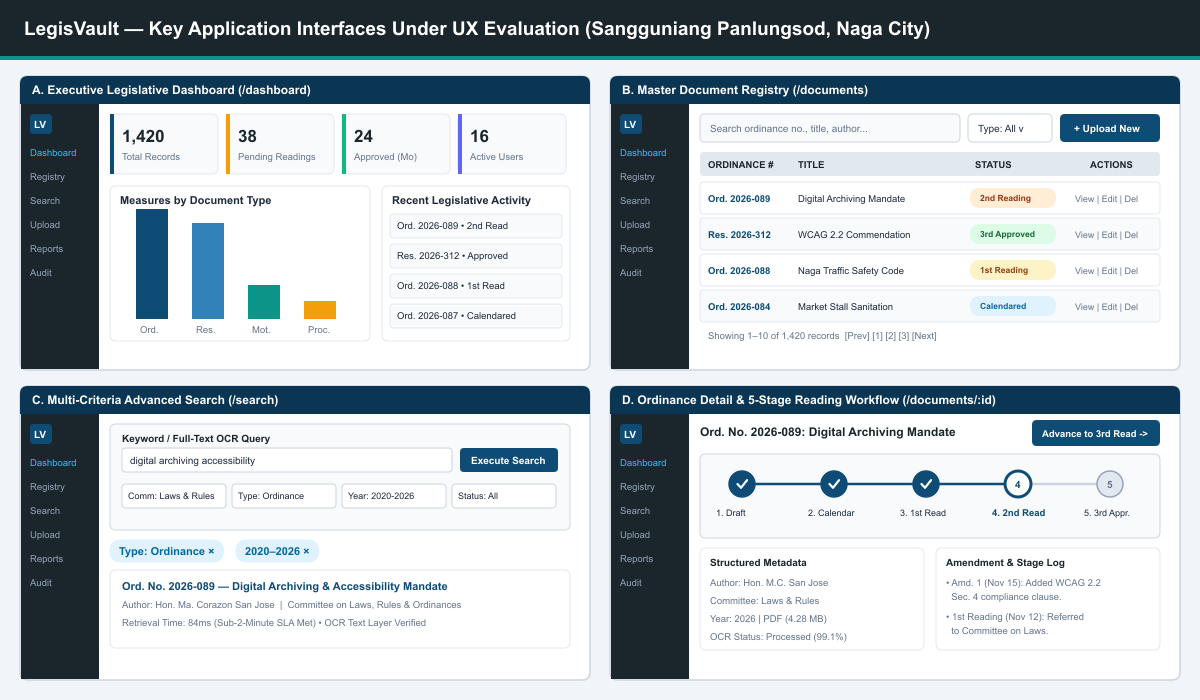
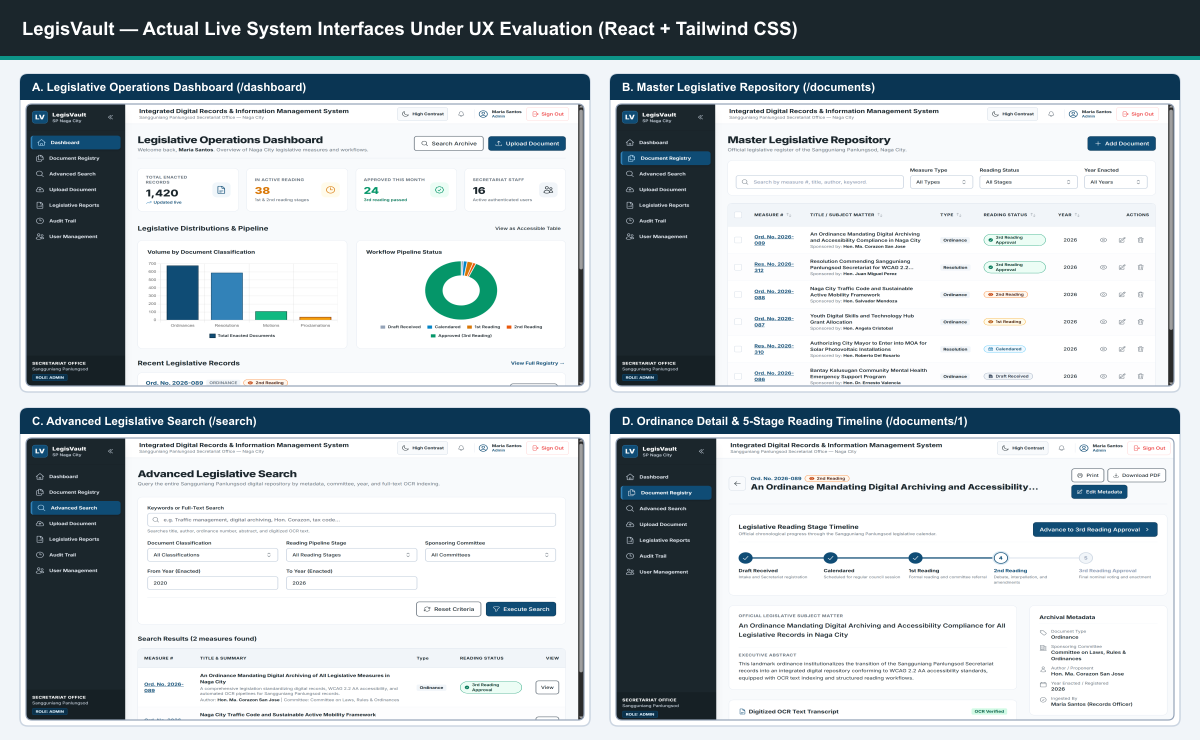
docs: Embed annotated live LegisVault screenshots in Laws of UX case study

Changed region(s): [[0.0, 0.03, 1.0, 0.99]]

diff --git a/LegisVault_Laws_of_UX_Case_Study.md b/LegisVault_Laws_of_UX_Case_Study.md
@@ -33,9 +33,9 @@
 4. **5-Stage Legislative Reading Workflow Tracking (`OrdinanceDetail.jsx` + `WorkflowTracker.jsx`):** Authorized clerks advance legislative measures sequentially across the 5 statutory stages with session dates and committee notes.
 5. **Administrative Governance & Forensic Auditing (`UserManagement.jsx` & `AuditLogs.jsx`):** Secretariat administrators manage user roles, committees, analytical reports, and inspect JSON-diffed audit trails.
 
-### 1.3 Key Interfaces Evaluated
+### 1.3 Key Interfaces Evaluated (Actual Live System Screenshots)
 ![LegisVault Key Interfaces Overview](ux_case_study_assets/fig1_key_interfaces.png)
-*Figure 1: Composite high-fidelity UI overview of LegisVault's four primary operational screens evaluated against Laws of UX heuristics: (A) Executive Dashboard, (B) Master Document Registry, (C) Multi-Criteria Advanced Search, and (D) Ordinance Detail & 5-Stage Reading Workflow.*
+*Figure 1: Actual live screenshots captured from the running LegisVault React + Tailwind CSS application across its four main screens: (A) Legislative Operations Dashboard (`/dashboard`), (B) Master Legislative Repository (`/documents`), (C) Advanced Legislative Search (`/search`), and (D) Ordinance Detail & 5-Stage Reading Timeline (`/documents/1`).*
 
 ---
 
@@ -69,6 +69,9 @@ A retrospective cognitive-ergonomics audit of `legisvault-frontend` revealed **7
 - **Interface Evidence:** `WorkflowTracker.jsx` chunks the entire statutory legislative journey into exactly **5** sequential milestones (`Draft Received` → `Calendared` → `1st Reading` → `2nd Reading` → `3rd Reading Approval`). `DocumentRepository.jsx` organizes table metadata into **5** columns and **4** filter dropdowns, while `SearchPage.jsx` externalizes active constraints as removable filter pills.
 - **UX Impact Analysis:** Keeping information chunks within the 5–7 item optimum prevents short-term working memory overload, allowing officials to parse any measure's legal posture at a single glance.
 
+![Annotated Live LegisVault Screens — Laws 2.1 to 2.4](ux_case_study_assets/fig2_implicit_laws_part1.png)
+*Figure 2: Annotated live system screenshots locating Jakob's Law [2.1], Fitts's Law [2.2], Hick's Law [2.3], and Miller's Law [2.4] directly on `/dashboard`, `/upload`, and `/documents/1`.*
+
 ### 2.5 Law of Proximity *(Max Wertheimer, 1923)*
 - **Interface Evidence:** `FormField.jsx` binds each persistent `<label>`, input field, helper hint, and `role="alert"` error message inside a tight vertical stack (`space-y-1.5`), separated by generous margins from neighboring fields. Row actions (`View`, `Edit`, `Delete`) sit tightly clustered at the trailing right edge of each record in `DocumentRepository.jsx`.
 - **UX Impact Analysis:** Spatial proximity ensures zero ambiguity between inputs, validation alerts, and record actions—vital for low-vision users operating at 200–400% screen magnification.
@@ -81,6 +84,9 @@ A retrospective cognitive-ergonomics audit of `legisvault-frontend` revealed **7
 - **Interface Evidence:** `tailwind.config.js` and `index.css` enforce a cohesive institutional visual system: Deep Civic Navy (`#0F4C75`), Slate Charcoal (`#1B262C`), high-luminance Surface (`#F8FAFC`), Inter typography, crisp card borders, balanced whitespace, and 3px teal focus indicators.
 - **UX Impact Analysis:** Visual refinement elevates perceived reliability and institutional authority, fostering trust among senior Sangguniang Panlungsod members transitioning from traditional paper ledgers.
 
+![Annotated Live LegisVault Screens — Laws 2.5 to 2.7](ux_case_study_assets/fig3_implicit_laws_part2.png)
+*Figure 3: Annotated live system screenshots locating Law of Proximity [2.5], Law of Similarity [2.6], and Aesthetic-Usability Effect [2.7] directly on `/documents`, `/upload`, and `/login`.*
+
 ---
 
 ## Section 3: UX Recommendations (Laws of UX to Apply)
@@ -92,68 +98,68 @@ Auditing our current React frontend revealed **7 concrete usability friction poi
 - **Proposed UX Law:** **Doherty Threshold** *(Doherty & Thadani, 1982)* — Productivity soars when computer and user interact at `<400ms` so neither waits on the other.
 - **Actionable Re-design Recommendation:** Replace blocking spinners with **content-aware skeleton screens** matching exact KPI cards and table rows (`<100ms` first paint); add **debounced `<400ms` typeahead search suggestions** in `SearchPage.jsx`; and upgrade `UploadDocument.jsx` with a **non-blocking, multi-stage live OCR progress bar** (`Uploading 100%` → `OCR Page 8 of 12` → `Indexing`) plus a **"+ Queue Another Document"** trigger.
 
-![Before vs. Proposed After — Doherty Threshold](ux_case_study_assets/fig2_doherty_threshold.png)
-*Figure 2: Side-by-side Before vs. Proposed After comparison applying the Doherty Threshold.*
+![Before vs. Proposed After — Doherty Threshold](ux_case_study_assets/fig4_doherty_threshold.png)
+*Figure 4: Actual LegisVault `/upload` & `/search` screens (left, annotated) vs. Proposed After (right) applying the Doherty Threshold.*
 
 ---
 
 ### 3.2 Visual Segmentation of High-Density Document Ingestion Forms
-- **Current Issue / Pain Point:** `UploadDocument.jsx` stacks 9+ heterogeneous inputs (file dropzone, Ordinance Number, Title, Author, Committee, Year, Document Type, Reading Status, Abstract, OCR toggle) inside a single flat vertical container, causing visual monotony and scanning fatigue during batch archival sessions.
+- **Current Issue / Pain Point:** In `UploadDocument.jsx` (`/upload`), Card 2 (*"2. Legislative Metadata"*) packs 7 heterogeneous inputs (Measure Number, Author, Title, Classification, Initial Reading Status, Sponsoring Committee, Year Enacted, Abstract) inside a single flat container, mixing bibliographic identity with parliamentary routing and causing scanning fatigue during batch archival sessions.
 - **Proposed UX Law:** **Law of Common Region** *(Stephen Palmer, 1992)* — Elements sharing a clearly bounded perimeter are perceived as a unified functional group.
-- **Actionable Re-design Recommendation:** Segment `UploadDocument.jsx` into **3 distinctly bordered card containers** with numbered section headers: **Section 1** (*Document File & OCR Ingestion*, sky-tinted card), **Section 2** (*Core Bibliographic Metadata*, crisp white card), and **Section 3** (*Legislative Classification & Initial Status*, light slate card). Enclose active filter pills in `SearchPage.jsx` within a dedicated tinted filter tray.
+- **Actionable Re-design Recommendation:** Segment `UploadDocument.jsx` into **3 distinctly bordered card containers** with numbered headers: **Region 1** (*Document Attachment & OCR Pipeline*, sky-tinted card), **Region 2** (*Core Bibliographic Identity*, crisp white card), and **Region 3** (*Parliamentary Routing & Classification*, light slate card).
 
-![Before vs. Proposed After — Law of Common Region](ux_case_study_assets/fig3_common_region.png)
-*Figure 3: Side-by-side Before vs. Proposed After comparison applying the Law of Common Region.*
+![Before vs. Proposed After — Law of Common Region](ux_case_study_assets/fig5_common_region.png)
+*Figure 5: Actual LegisVault `/upload` screen (left, annotated) vs. Proposed After (right) applying the Law of Common Region.*
 
 ---
 
 ### 3.3 Forgiving Legislative Search & Flexible Scanned Image Ingestion
-- **Current Issue / Pain Point:** `SearchPage.jsx` fails to match informal clerk shorthand (e.g., `"ord 2026-89"`) against canonical zero-padded records (`"Ord. No. 2026-089"`), while `UploadDocument.jsx` rejects standard flatbed scanner image outputs (`.jpg`, `.png`, `.tiff`) despite supporting OCR—forcing clerks into external PDF conversion tools.
+- **Current Issue / Pain Point:** Live `/upload` explicitly states *"Supported formats: PDF, Microsoft Word (.doc, .docx)"*—rejecting standard flatbed scanner outputs (`.jpg`, `.png`, `.tiff`) despite supporting OCR—while live `/search` fails to match informal clerk shorthand (e.g., `"ord 2026-89"`) against canonical zero-padded records (`"Ord. No. 2026-089"`).
 - **Proposed UX Law:** **Postel's Law / Robustness Principle** *(Jon Postel, 1980)* — Be liberal in what you accept from humans, and conservative (strict, canonical) in what you store and output.
 - **Actionable Re-design Recommendation:** Add **query auto-normalization and fuzzy matching** in `SearchController.php` / `SearchPage.jsx` (mapping `"ord 2026-89"` → `"Ord. No. 2026-089"` with a transparent confirmation banner), and expand `UploadDocument.jsx` to accept `.jpg`, `.png`, and `.tiff` scans—automatically converting them into standardized archival PDF/A files with OCR text layers and canonical Ordinance Numbers on save.
 
-![Before vs. Proposed After — Postel's Law](ux_case_study_assets/fig4_postels_law.png)
-*Figure 4: Side-by-side Before vs. Proposed After comparison applying Postel's Law.*
+![Before vs. Proposed After — Postel's Law](ux_case_study_assets/fig6_postels_law.png)
+*Figure 6: Actual LegisVault `/upload` & `/search` screens (left, annotated) vs. Proposed After (right) applying Postel's Law.*
 
 ---
 
 ### 3.4 Incomplete Task Visibility, Draft Auto-Save & Stalled Queue Alerts
-- **Current Issue / Pain Point:** Clerks interrupted mid-upload lose all unsaved metadata upon page refresh because `UploadDocument.jsx` lacks draft persistence and field completeness indicators. Simultaneously, `Dashboard.jsx` shows passive aggregate totals (`38 Pending Readings`) that hide stalled measures (`>14 days` in `1st Reading`) and unverified OCR records.
+- **Current Issue / Pain Point:** Clerks interrupted mid-upload lose all unsaved metadata upon page refresh because live `/upload` lacks draft persistence and field completeness indicators. Simultaneously, live `/dashboard` shows passive aggregate totals (`38 In Active Reading`) that hide stalled measures (`>14 days` in `1st Reading`) and unverified OCR records.
 - **Proposed UX Law:** **Zeigarnik Effect** *(Bluma Zeigarnik, 1927)* — People remember and feel psychologically driven to finish uncompleted or interrupted tasks.
 - **Actionable Re-design Recommendation:** Add a sticky **Metadata Completeness Progress Bar** (`75% Complete — 6 of 8 Required Fields`) backed by automatic `localStorage` draft saving and a **"Resume Draft"** banner in `UploadDocument.jsx`. Add an actionable **"Incomplete & Stalled Legislative Actions"** widget to `Dashboard.jsx` surfacing stalled readings, unverified OCR files, and paused drafts with one-click deep links.
 
-![Before vs. Proposed After — Zeigarnik Effect](ux_case_study_assets/fig5_zeigarnik_effect.png)
-*Figure 5: Side-by-side Before vs. Proposed After comparison applying the Zeigarnik Effect.*
+![Before vs. Proposed After — Zeigarnik Effect](ux_case_study_assets/fig7_zeigarnik_effect.png)
+*Figure 7: Actual LegisVault `/dashboard` & `/upload` screens (left, annotated) vs. Proposed After (right) applying the Zeigarnik Effect.*
 
 ---
 
 ### 3.5 Authoritative Archival & 3rd Reading Enactment Confirmation
-- **Current Issue / Pain Point:** Completing major institutional milestones—such as advancing a measure to **3rd Reading Approval (Enactment)** in `WorkflowTracker.jsx` or sealing a digitized archive in `UploadDocument.jsx`—terminates abruptly with an auto-dismissing 4-second `Toast` and immediate redirect, leaving clerks without a verifiable audit receipt or clear next step.
+- **Current Issue / Pain Point:** Completing major institutional milestones—such as clicking *"Advance to 3rd Reading Approval >"* on live `/documents/1` or sealing a digitized archive on `/upload`—terminates abruptly with an auto-dismissing 4-second `Toast`, leaving clerks without a verifiable audit receipt or clear next step.
 - **Proposed UX Law:** **Peak-End Rule** *(Daniel Kahneman, 1999)* — Users judge an experience disproportionately by how they felt at its peak and at its final moment.
 - **Actionable Re-design Recommendation:** Replace ephemeral toasts at milestone peaks with an authoritative **Official Enactment & Archival Receipt Modal** showing the Ordinance Number, 5-of-5 stage confirmation, Audit Trail Receipt ID, SHA-256 archival checksum, OCR accuracy score, PHT timestamp, and three explicit next actions (*Download Audit Receipt*, *View Sealed Record*, *Upload Next Measure*).
 
-![Before vs. Proposed After — Peak-End Rule](ux_case_study_assets/fig6_peak_end_rule.png)
-*Figure 6: Side-by-side Before vs. Proposed After comparison applying the Peak-End Rule.*
+![Before vs. Proposed After — Peak-End Rule](ux_case_study_assets/fig8_peak_end_rule.png)
+*Figure 8: Actual LegisVault `/documents/1` screen (left, annotated) vs. Proposed After (right) applying the Peak-End Rule.*
 
 ---
 
 ### 3.6 OCR-Assisted Smart Metadata Pre-Fill & One-Click Filter Presets
-- **Current Issue / Pain Point:** Even though LegisVault executes OCR, `UploadDocument.jsx` leaves all 7+ metadata fields blank after file upload, forcing clerks to manually transcribe titles, ordinance numbers, authors, and years. In `DocumentRepository.jsx`, all 5 filter dropdowns are exposed simultaneously even for routine daily lookups.
+- **Current Issue / Pain Point:** Even though *"Run Automated OCR Text Recognition on Ingestion"* is checked by default on live `/upload`, all 7 metadata fields below remain blank after file upload, forcing clerks to manually transcribe measure numbers, authors, titles, committees, and years.
 - **Proposed UX Law:** **Tesler's Law / Law of Conservation of Complexity** *(Larry Tesler, 1984)* — Shift irreducible complexity from the human user onto the software system.
-- **Actionable Re-design Recommendation:** Trigger **OCR-Assisted Smart Metadata Pre-Fill** immediately upon file drop, auto-populating Ordinance Number, Title, Author, Committee, and Year with editable confidence badges (`99% Match — Verify`), and add one-click **Saved Filter Presets** (*Pending My Review*, *2026 Ordinances*, *Needs OCR*) above the registry table while keeping granular filters collapsible.
+- **Actionable Re-design Recommendation:** Trigger **OCR-Assisted Smart Metadata Pre-Fill** immediately upon file drop, auto-populating Measure Number, Title, Author, Committee, and Year with editable confidence badges (`99% Match — Verify`), and add one-click **Saved Filter Presets** (*Pending My Review*, *2026 Ordinances*, *Needs OCR*) above the Master Repository table.
 
-![Before vs. Proposed After — Tesler's Law](ux_case_study_assets/fig7_teslers_law.png)
-*Figure 7: Side-by-side Before vs. Proposed After comparison applying Tesler's Law.*
+![Before vs. Proposed After — Tesler's Law](ux_case_study_assets/fig9_teslers_law.png)
+*Figure 9: Actual LegisVault `/upload` screen (left, annotated) vs. Proposed After (right) applying Tesler's Law.*
 
 ---
 
 ### 3.7 Visual Isolation of Primary CTAs, Danger Actions & Urgent Measures
-- **Current Issue / Pain Point:** In `OrdinanceDetail.jsx` and `DocumentRepository.jsx`, toolbar actions (`Download`, `Print`, `Edit`, `Advance Stage`, `Delete`) share uniform visual weight—inviting accidental clicks—and urgent measures calendared for today's regular session blend into routine table rows.
+- **Current Issue / Pain Point:** On live `/documents/1`, **two heavy filled Civic Navy primary buttons** (`Edit Metadata` and `Advance to 3rd Reading Approval >`) compete simultaneously in the same viewport, splitting user attention. Meanwhile, live `/documents` renders all rows identically so urgent measures calendared for today's session blend into routine rows.
 - **Proposed UX Law:** **Von Restorff Effect / Isolation Effect** *(Hedwig von Restorff, 1933)* — Among visually similar items, the single item that differs distinctly captures immediate attention and recall.
-- **Actionable Re-design Recommendation:** Enforce **one dominant filled Civic Navy (`#0F4C75`) primary CTA per viewport** (`Advance to 3rd Reading`), demote secondary utilities to subtle outline/ghost styling, isolate destructive actions (`Delete`) far-right with crimson warning borders, and highlight session-critical rows with a **6px amber left accent bar** and bold **`SESSION TODAY`** badge.
+- **Actionable Re-design Recommendation:** Demote `Edit Metadata` to an outline utility button so **one dominant filled Civic Navy (`#0F4C75`) primary CTA** commands the viewport, isolate destructive actions (`Delete`) far-right with crimson warning borders, and highlight session-critical rows with a **6px amber left accent bar** and bold **`SESSION TODAY`** badge.
 
-![Before vs. Proposed After — Von Restorff Effect](ux_case_study_assets/fig8_von_restorff.png)
-*Figure 8: Side-by-side Before vs. Proposed After comparison applying the Von Restorff Effect.*
+![Before vs. Proposed After — Von Restorff Effect](ux_case_study_assets/fig10_von_restorff.png)
+*Figure 10: Actual LegisVault `/documents/1` & `/documents` screens (left, annotated) vs. Proposed After (right) applying the Von Restorff Effect.*
 
 ---
 
